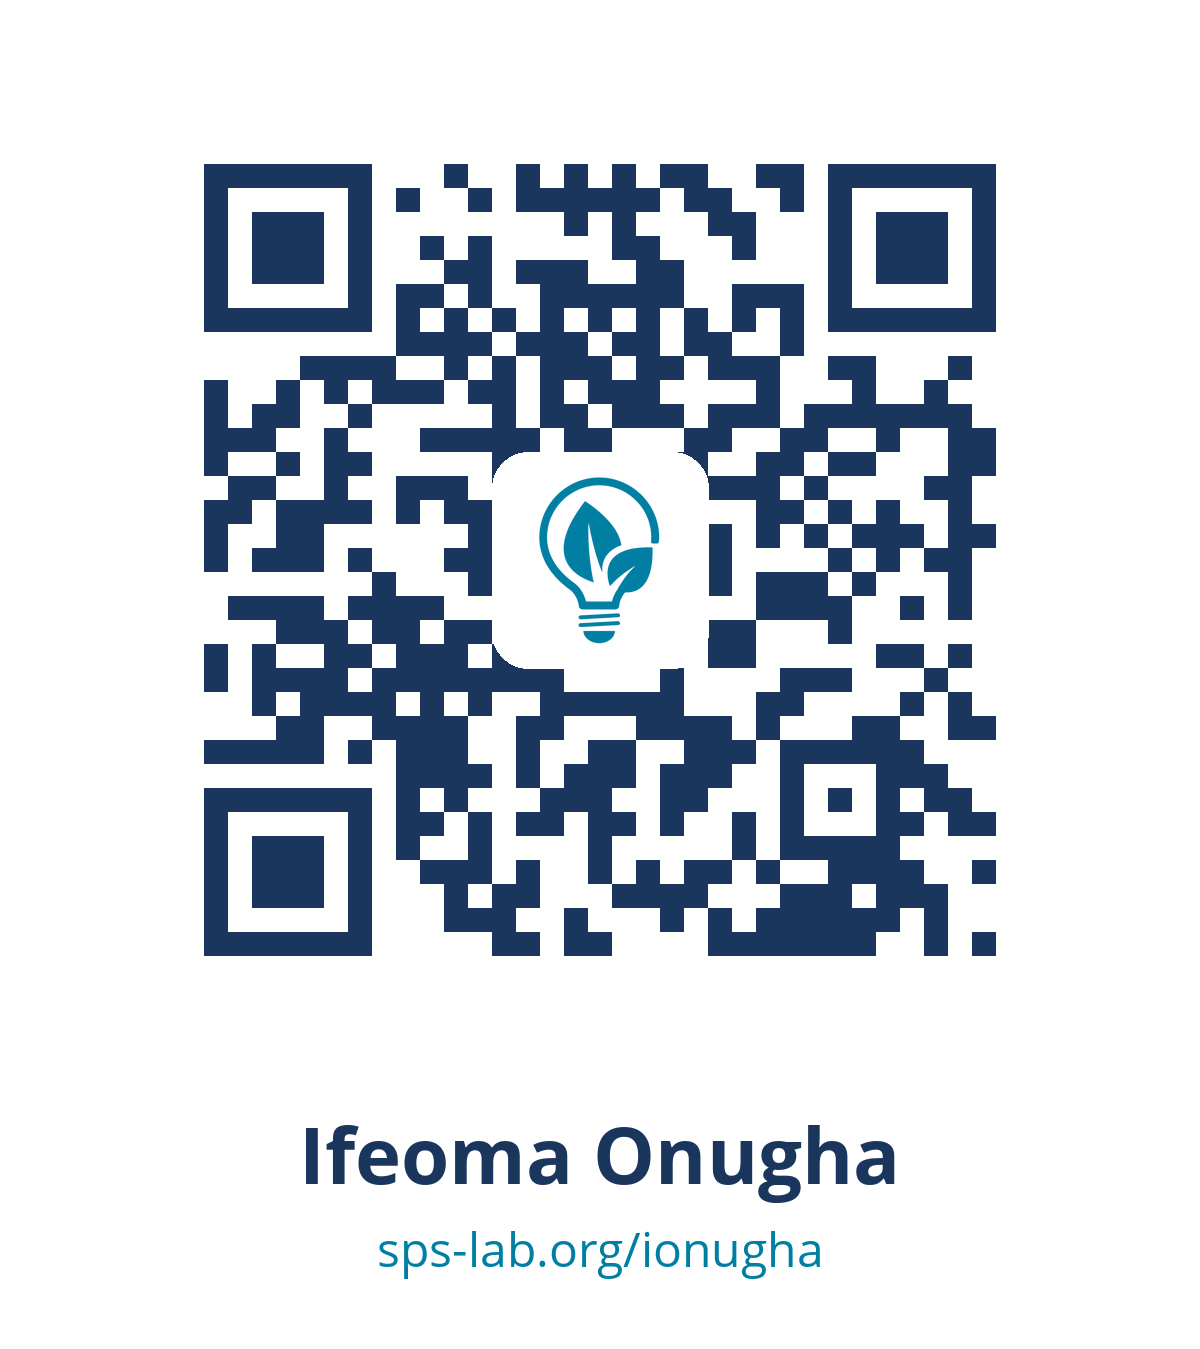
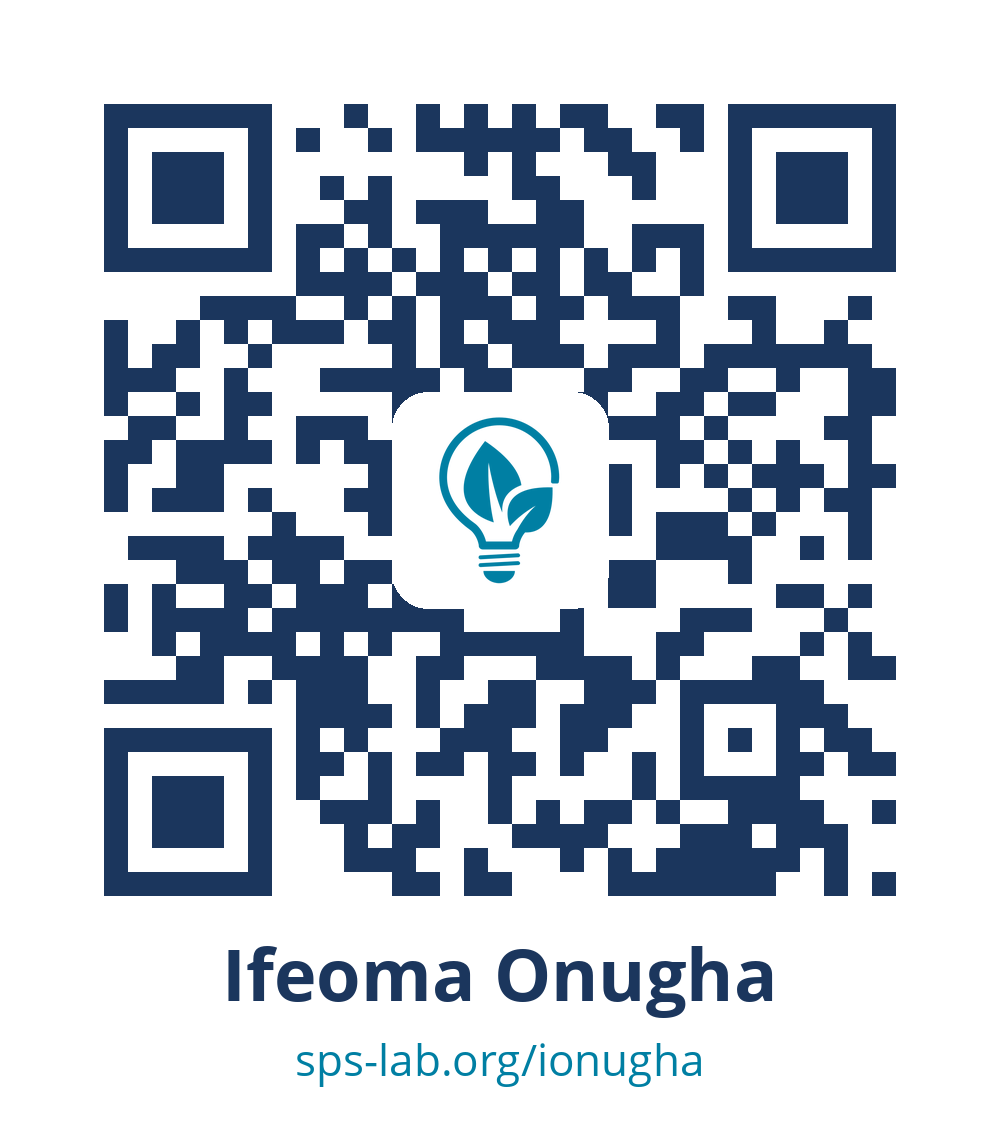
Regenerate QR codes with trimmed margins
The code's own 4-module quiet zone is now the only white border: canvas
width equals the code (1000 px), no top padding, and the name/link sit
directly under the last row of modules. Output shrinks from 1200x1331
to 1000x1134 with no change to the code itself; all 18 re-verified to
decode.

Claude-Session: https://claude.ai/code/session_011wAJmhC83w7bsvpJ42zzDq

diff --git a/content/authors/make_qr.py b/content/authors/make_qr.py
@@ -45,15 +45,18 @@ WHITE = (255, 255, 255)
 FONT_BOLD = "/usr/share/fonts/truetype/open-sans/OpenSans-Bold.ttf"
 FONT_REG = "/usr/share/fonts/truetype/open-sans/OpenSans-Regular.ttf"
 
-# Output geometry (px)
-W = 1200                  # canvas width
+# Output geometry (px). Margins are trimmed: the code's own 4-module quiet zone
+# (required for scanning) is the only white border; the text sits right under
+# the last row of modules.
+W = 1000                  # canvas width = QR width (quiet zone included)
 QR_W = 1000               # rendered QR width (incl. quiet zone)
-PAD_TOP = 60
-GAP_NAME = 40             # QR -> name
-GAP_URL = 12              # name -> url
-PAD_BOTTOM = 70
-NAME_PT = 78
-URL_PT = 48
+PAD_TOP = 0
+GAP_NAME = 28             # last dark module row -> name
+GAP_URL = 10              # name -> url
+PAD_BOTTOM = 36
+TEXT_MAX_W = W - 40       # long names shrink to fit this width
+NAME_PT = 72
+URL_PT = 44
 ICON_FRAC = 0.22          # icon plate width as fraction of the QR width (<30% keeps ECC-H happy)
 
 
@@ -120,17 +123,19 @@ def make_qr(title: str, alias: str, out: Path) -> None:
 
     # Text block
     tmp = ImageDraw.Draw(Image.new("RGB", (1, 1)))
-    name_font = fit_text(tmp, title, FONT_BOLD, NAME_PT, W - 120)
+    name_font = fit_text(tmp, title, FONT_BOLD, NAME_PT, TEXT_MAX_W)
     url_text = SITE_SHORT + alias
-    url_font = fit_text(tmp, url_text, FONT_REG, URL_PT, W - 120)
+    url_font = fit_text(tmp, url_text, FONT_REG, URL_PT, TEXT_MAX_W)
     name_h = name_font.getbbox(title)[3]
     url_h = url_font.getbbox(url_text)[3]
 
-    H = PAD_TOP + QR_W + GAP_NAME + name_h + GAP_URL + url_h + PAD_BOTTOM
+    quiet = qr.border * qr.box_size              # white quiet zone baked into the code image
+    code_top = PAD_TOP + (QR_W - side) // 2
+    y = code_top + side - quiet + GAP_NAME       # first text baseline area, just under the modules
+    H = y + name_h + GAP_URL + url_h + PAD_BOTTOM
     canvas = Image.new("RGB", (W, H), WHITE)
-    canvas.paste(code, ((W - side) // 2, PAD_TOP + (QR_W - side) // 2))
+    canvas.paste(code, ((W - side) // 2, code_top))
     d = ImageDraw.Draw(canvas)
-    y = PAD_TOP + QR_W + GAP_NAME
     d.text((W // 2, y), title, font=name_font, fill=NAVY, anchor="ma")
     y += name_h + GAP_URL
     d.text((W // 2, y), url_text, font=url_font, fill=TEAL, anchor="ma")
